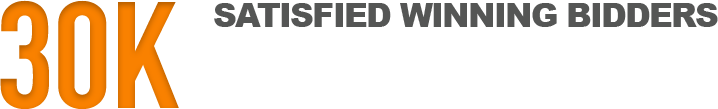
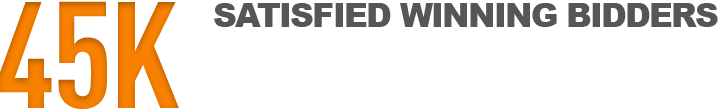
Updates to Home stats slider

Changed region(s): [[0.0, 0.0, 0.1532, 1.0], [0.1226, 0.7982, 0.1532, 0.8257]]

diff --git a/web/css/less/main.less b/web/css/less/main.less
@@ -818,7 +818,8 @@ footer, #footer { height:220px;border-top:1px solid rgb(195,213,224);
             background:url(/img/home-stats-bg-1.png) no-repeat;
             h5 {
                 background:url(/img/home-stats-thestat-1.png) no-repeat;
-                width:718px;
+                background-size:720px 109px;
+                width:720px;
                 height:109px;
                 left:134px;
                 top:90px;
@@ -835,6 +836,7 @@ footer, #footer { height:220px;border-top:1px solid rgb(195,213,224);
             background:url(/img/home-stats-bg-2.png) no-repeat;
             h5 {
                 background:url(/img/home-stats-thestat-2.png) no-repeat;
+                background-size:789px 100px;
                 width:789px;
                 height:100px;
                 left:121px;
@@ -846,6 +848,7 @@ footer, #footer { height:220px;border-top:1px solid rgb(195,213,224);
                 width:789px;
                 text-align:justify;
                 margin:161px 0 0 121px;
+                font-size:20px;
             }
         }
         
@@ -853,6 +856,7 @@ footer, #footer { height:220px;border-top:1px solid rgb(195,213,224);
             background:url(/img/home-stats-bg-3.png) no-repeat;
             h5 {
                 background:url(/img/home-stats-thestat-3.png) no-repeat;
+                background-size:166px 136px;
                 width:166px;
                 height:136px;
                 left:92px;
